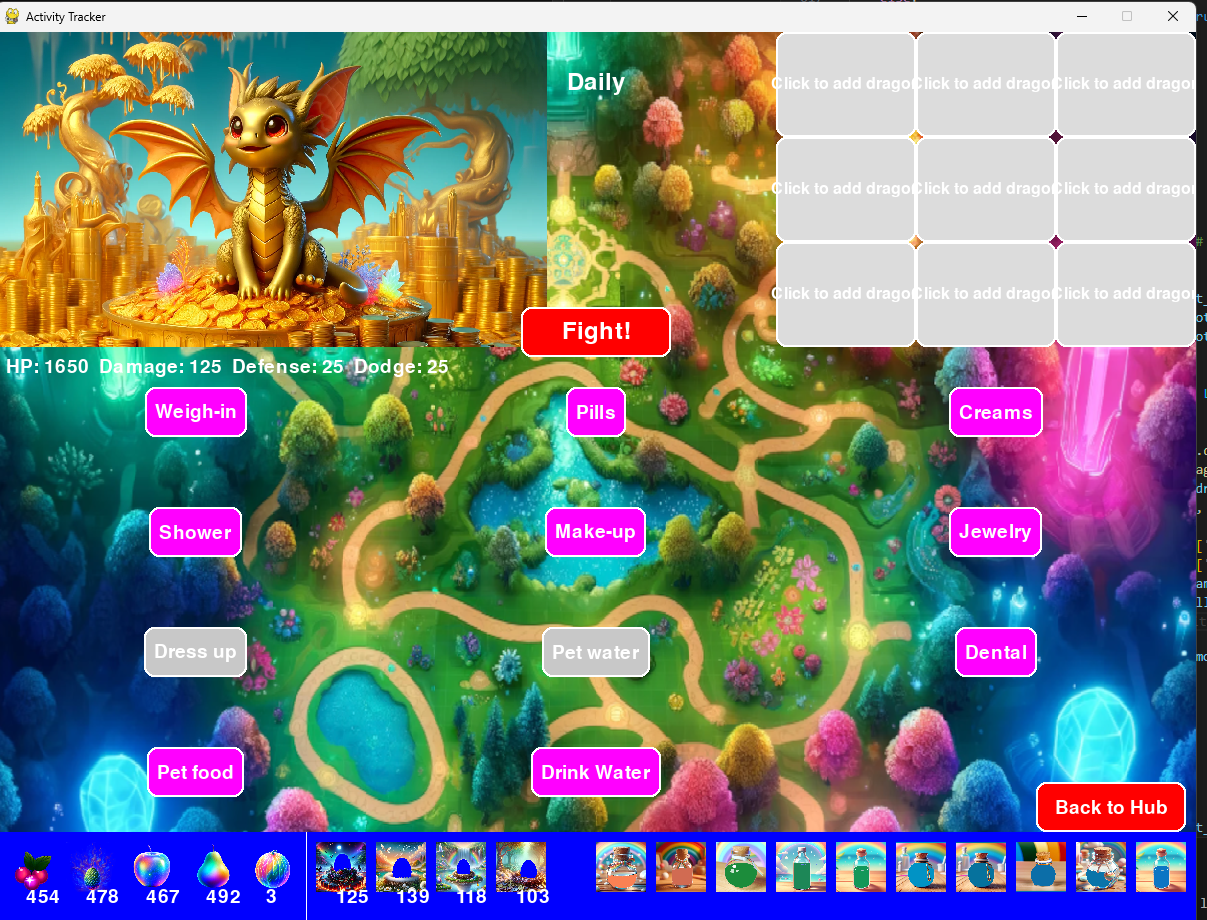
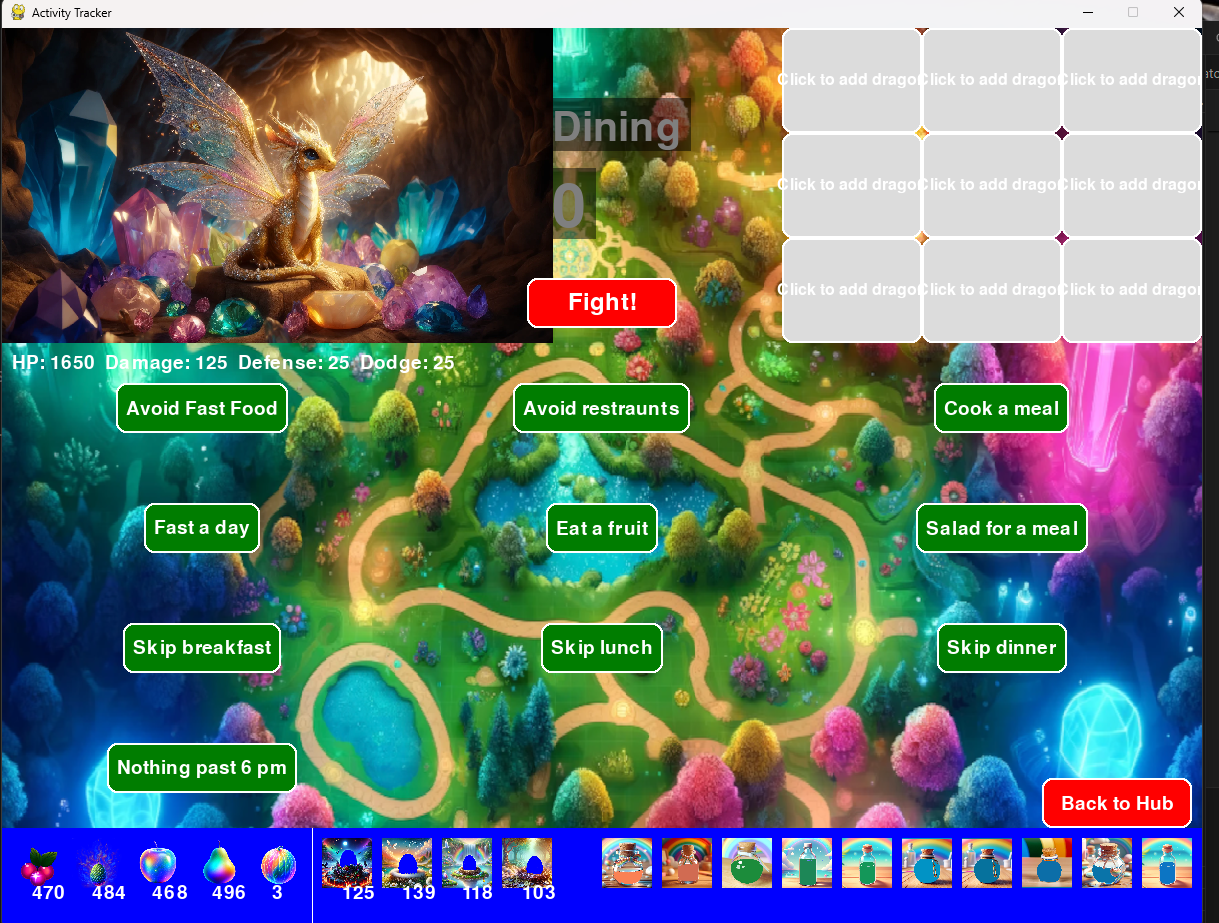
quest clicks

diff --git a/fitness.py b/fitness.py
@@ -49,10 +49,11 @@ background = load_image(background_path, (WIDTH, HEIGHT))
 category_font = pygame.font.Font(None, 60)  # Larger font for category word
 token_font = pygame.font.Font(None, 90)  # Much larger font for player token count
 
-def connect_db(db_name):
+def connect_db(db_name='save.db'):
     db_path = os.path.join(os.path.dirname(__file__), db_name)
     conn = sqlite3.connect(db_path)
     return conn
+
 
 def load_inventory_data():
     global inventory, egg_counts, inventory_slots
@@ -119,27 +120,41 @@ def save_inventory_data():
     logging.info("Inventory saved successfully")
 
 def load_quests(category):
-    conn = connect_db('dragonsedit.db')
+    conn = connect_db('save.db')
     cursor = conn.cursor()
-    cursor.execute("SELECT ID, Category, Description, ChallengeRating, Reward, completed FROM quests WHERE Category=?", (category,))
+    logging.info(f"Loading quests for category {category}")
+    cursor.execute("SELECT ID, Category, Description, ChallengeRating, Reward, completed, tally FROM playerquests WHERE Category = ? AND (reset IS NULL OR reset <= date('now'))", (category,))
     quests = cursor.fetchall()
+    logging.info(f"Loaded quests: {quests}")
     conn.close()
     return quests
 
-def complete_quest(quest_id):
-    conn = connect_db('dragonsedit.db')
+
+def complete_daily_quest(quest_id):
+    conn = connect_db('save.db')
     cursor = conn.cursor()
-    cursor.execute("UPDATE quests SET completed=1 WHERE ID=?", (quest_id,))
+    logging.info(f"Completing daily quest ID {quest_id}")
+    cursor.execute("UPDATE playerquests SET completed = 1, reset = date('now', '+1 day') WHERE ID = ?", (quest_id,))
     conn.commit()
     conn.close()
 
+    
 def update_inventory(reward_str):
     rewards = reward_str.split()
     fruit, amount = rewards[1], int(rewards[0])
-    logging.info(f"Updating inventory: Adding {amount} of {fruit}")
-    inventory[fruit] += amount
-    logging.info(f"New inventory count for {fruit}: {inventory[fruit]}")
+    print(f"Updating inventory: Adding {amount} of {fruit}")
+
+    # Ensure the fruit exists in the inventory before updating
+    if fruit in inventory:
+        inventory[fruit] += amount
+        print(f"New inventory count for {fruit}: {inventory[fruit]}")
+    else:
+        inventory[fruit] = amount
+        print(f"Added new fruit {fruit} with count: {amount}")
+
+    # Save the updated inventory to the database
     save_inventory_data()
+
 
 def flag_dragon_aggressive(category):
     # Placeholder function for flagging dragon as aggressive
@@ -195,44 +210,30 @@ def draw_beveled_button_gradient(surface, rect, text, font, gradient_colors):
     text_rect = text_surface.get_rect(center=rect.center)
     surface.blit(text_surface, text_rect)
 
+# Then update the game loop or where the quests are displayed to refresh the quests
 def draw_area_gameboard(category, boss_dragon_filename, boss_dragon_stats, player_dragons):
     screen.fill(GREY)
     screen.blit(background, (0, 0))
 
-    # Adjust the position of the category title and player token count
-    category_text = category.capitalize()
-    category_pos = (WIDTH // 2 - 10, 80)
+    draw_text(screen, category.capitalize(), category_font, WHITE, (WIDTH // 2 - 50, 80))
     token_text = str(player_tokens[category])
-    token_pos = (WIDTH // 2 , 140)
+    draw_text(screen, token_text, token_font, WHITE, (WIDTH // 2 - 50, 150))
 
-    # Calculate the size of the text surfaces
-    category_surface = category_font.render(category_text, True, WHITE)
-    token_surface = token_font.render(token_text, True, WHITE)
+    box_width, box_height = category_font.size(category.capitalize())
+    s = pygame.Surface((box_width + 20, box_height + 10))
+    s.set_alpha(128)
+    s.fill((0, 0, 0))
+    screen.blit(s, (WIDTH // 2 - 60, 70))
 
-    # Create the semi-transparent boxes
-    category_box = pygame.Rect(category_pos[0] - 10, category_pos[1] - 10, category_surface.get_width() + 20, category_surface.get_height() + 20)
-    token_box = pygame.Rect(token_pos[0] - 10, token_pos[1] - 10, token_surface.get_width() + 20, token_surface.get_height() + 20)
+    box_width, box_height = token_font.size(token_text)
+    s = pygame.Surface((box_width + 20, box_height + 10))
+    s.set_alpha(128)
+    s.fill((0, 0, 0))
+    screen.blit(s, (WIDTH // 2 - 60, 140))
 
-    # Draw the semi-transparent boxes
-    s1 = pygame.Surface((category_box.width, category_box.height))
-    s1.set_alpha(128)  # Alpha level
-    s1.fill((0, 0, 0))  # Fill the surface with color
-    screen.blit(s1, category_box.topleft)
-
-    s2 = pygame.Surface((token_box.width, token_box.height))
-    s2.set_alpha(128)  # Alpha level
-    s2.fill((0, 0, 0))  # Fill the surface with color
-    screen.blit(s2, token_box.topleft)
-
-    # Draw the text
-    draw_text(screen, category_text, category_font, WHITE, category_pos)
-    draw_text(screen, token_text, token_font, WHITE, token_pos)
-
-    # Load and display boss dragon image
     max_height = int(HEIGHT * 0.35)
     boss_dragon_image = load_boss_dragon_image(boss_dragon_filename, max_height)
-
-    # Check and flip boss dragon image if necessary
+    
     conn = connect_db('dragonsedit.db')
     cursor = conn.cursor()
     cursor.execute("SELECT facing_direction FROM dragons WHERE filename=?", (boss_dragon_filename,))
@@ -244,21 +245,21 @@ def draw_area_gameboard(category, boss_dragon_filename, boss_dragon_stats, playe
 
     screen.blit(boss_dragon_image, (0, 0))
 
-    # Calculate and display boss stats
     boss_hp, boss_damage, boss_defense, boss_dodge = calculate_boss_stats(boss_dragon_stats)
     stats_text = f"HP: {boss_hp}  Damage: {boss_damage}  Defense: {boss_defense}  Dodge: {boss_dodge}"
     draw_text(screen, stats_text, small_font, WHITE, (10, max_height + 10))
 
-    # Load and display quests
     quests = load_quests(category)
-    button_height = 50  # Fixed height for consistency
+    button_height = 50
     grid_cols = 3
     grid_rows = 4
-    total_grid_height = (HEIGHT - 100) * 0.6  # Exclude bottom 100 pixels for the inventory box
+    total_grid_height = (HEIGHT - 100) * 0.6
     total_grid_width = WIDTH
     grid_height = total_grid_height // grid_rows
     grid_width = total_grid_width // grid_cols
-    start_y = (HEIGHT - 100) * 0.4  # Start the grid at 40% of the adjusted height
+    start_y = (HEIGHT - 100) * 0.4
+
+    logging.info(f"Drawing {len(quests)} quests for category {category}")
 
     for i, quest in enumerate(quests):
         text_surface = small_font.render(quest[2], True, WHITE)
@@ -266,27 +267,24 @@ def draw_area_gameboard(category, boss_dragon_filename, boss_dragon_stats, playe
         x = (i % grid_cols) * grid_width + (grid_width - button_width) // 2
         y = start_y + (i // grid_cols) * grid_height + (grid_height - button_height) // 2
         color = CATEGORY_INFO.get(quest[1], {}).get('color', BLUE)
-        if quest[5]:  # If completed
+        if quest[5]:
             color = GREY
         rect = pygame.Rect(x, y, button_width, button_height)
         draw_beveled_button(screen, rect, color, quest[2], small_font)
+        logging.info(f"Quest {quest[2]} at ({x}, {y}) with rect {rect}")
 
-    # Draw the inventory
     draw_inventory(screen, inventory, egg_counts, inventory_slots)
-
-    # Draw back to hub button
     back_button_rect = pygame.Rect(WIDTH - 160, HEIGHT - 150, 150, 50)
     draw_beveled_button(screen, back_button_rect, RED, "Back to Hub", small_font)
 
-    # Draw fight button
-    fight_button_rect = pygame.Rect(WIDTH // 2 - 20, 200, 150, 50)  # Adjust position here
+    fight_button_rect = pygame.Rect(WIDTH // 2 - 75, 250, 150, 50)
     draw_beveled_button(screen, fight_button_rect, RED, "Fight!", font)
 
     draw_player_dragon_slots(player_dragons)
-
     pygame.display.flip()
 
-    return fight_button_rect  # Return the rect for fight button click handling
+    return fight_button_rect
+
 
 
 def get_random_dragon():
@@ -361,31 +359,61 @@ def handle_back_to_hub_click(mouse_x, mouse_y):
     back_button_rect = pygame.Rect(WIDTH - 160, HEIGHT - 150, 150, 50)
     return back_button_rect.collidepoint(mouse_x, mouse_y)
 
+
+def remove_and_replace_quest(quest_id, category):
+    conn = connect_db('save.db')
+    cursor = conn.cursor()
+    logging.info(f"Removing and replacing quest ID {quest_id} in category {category}")
+    # Increment the tally column
+    cursor.execute("UPDATE playerquests SET tally = tally + 1 WHERE ID = ?", (quest_id,))
+    # Mark the quest as available
+    cursor.execute("UPDATE playerquests SET completed = 0, reset = NULL WHERE ID = ?", (quest_id,))
+    # Select a new quest from the pool of available quests
+    cursor.execute("SELECT ID, Category, Description, ChallengeRating, Reward, completed, tally FROM playerquests WHERE Category = ? AND (reset IS NULL OR reset <= date('now')) ORDER BY RANDOM() LIMIT 1", (category,))
+    new_quest = cursor.fetchone()
+    logging.info(f"Selected new quest: {new_quest}")
+    conn.commit()
+    conn.close()
+    return new_quest
+
+
 def handle_quest_click(category, mouse_x, mouse_y):
+    print(f"Handling quest click for category {category} at position ({mouse_x}, {mouse_y})")
     quests = load_quests(category)
-    total_challenge_rating = 0
+    print(f"Loaded quests: {quests}")
+
     button_height = 50
     grid_cols = 3
     grid_rows = 4
-    grid_width = WIDTH // grid_cols
-    grid_height = (HEIGHT * 0.6) // grid_rows
-    margin_x = (grid_width - button_height) // 2
-    margin_y = (grid_height - button_height) // 2
+    total_grid_height = (HEIGHT - 100) * 0.6
+    total_grid_width = WIDTH
+    grid_height = total_grid_height // grid_rows
+    grid_width = total_grid_width // grid_cols
+    start_y = (HEIGHT - 100) * 0.4
 
     for i, quest in enumerate(quests):
         text_surface = small_font.render(quest[2], True, WHITE)
         button_width = text_surface.get_width() + 20
-        x = margin_x + (i % grid_cols) * (grid_width + margin_x)
-        y = HEIGHT * 0.4 + (i // grid_cols) * grid_height + margin_y
+        x = (i % grid_cols) * grid_width + (grid_width - button_width) // 2
+        y = start_y + (i // grid_cols) * grid_height + (grid_height - button_height) // 2
         rect = pygame.Rect(x, y, button_width, button_height)
+
+        print(f"Checking quest '{quest[2]}' with button boundaries: top-left ({x}, {y}), size ({button_width}x{button_height})")
+
         if rect.collidepoint(mouse_x, mouse_y):
-            if not quest[5]:  # Only handle if not already completed
-                complete_quest(quest[0])
-                update_inventory(quest[4])
-                total_challenge_rating += quest[3]
-                if total_challenge_rating >= 10:
-                    flag_dragon_aggressive(category)
+            print(f"Quest '{quest[2]}' clicked!")
+            update_inventory(f"{quest[3]} {CATEGORY_INFO[category]['fruit']}")
+            additional_fruits = random.sample(list(CATEGORY_INFO.values()), k=quest[3] // 2)
+            for fruit_info in additional_fruits:
+                update_inventory(f"1 {fruit_info['fruit']}")
+            player_tokens[category] += quest[3]
+            if category == 'daily':
+                complete_daily_quest(quest[0])
+            else:
+                new_quest = remove_and_replace_quest(quest[0], category)
+                quests[i] = new_quest
             break
+
 
 # Calculate dragon stats from traits and save to stats variable
 def calculate_dragon_stats(primary_trait, secondary_traits, nurture_trait=None):
@@ -724,9 +752,10 @@ def game_loop():
     running = True
     current_screen = 'hub'
     selected_area = None
-    boss_dragon_filename = None  # Store the selected boss dragon filename
-    boss_dragon_stats = None  # Store the selected boss dragon stats
+    boss_dragon_filename = None
+    boss_dragon_stats = None
     player_dragons = initialize_player_dragons()
+    fight_button_rect = pygame.Rect(WIDTH // 2 - 75, 150, 150, 50)
 
     while running:
         for event in pygame.event.get():
@@ -734,38 +763,38 @@ def game_loop():
                 running = False
             elif event.type == pygame.MOUSEBUTTONDOWN:
                 mouse_x, mouse_y = event.pos
+                logging.info(f"Mouse clicked at position ({mouse_x}, {mouse_y})")
                 if current_screen == 'hub':
                     for i, pos in enumerate([(100, 200), (300, 200), (500, 200), (700, 200), (900, 200)]):
                         dragon_image_file = selected_dragons[i]
                         dragon_image_path = os.path.join(os.path.dirname(__file__), "dragons", dragon_image_file)
-                        dragon_image = load_and_resize_image_keeping_aspect(dragon_image_path, (150, 150))  # Resize to fit within 150x150
+                        dragon_image = load_and_resize_image_keeping_aspect(dragon_image_path, (150, 150))
                         image_rect = dragon_image.get_rect(center=pos)
                         if image_rect.collidepoint(mouse_x, mouse_y):
                             selected_area = list(CATEGORY_INFO.keys())[i]
-                            boss_dragon_filename = dragon_image_file  # Store the selected boss dragon filename
-                            primary_trait = "Mystical"  # Example primary trait for boss dragon
-                            secondary_traits = ["Distraction", "Courageous", "Fearsome"]  # Example secondary traits for boss dragon
-                            nurture_trait = None  # Example nurture trait for boss dragon, if any
+                            boss_dragon_filename = dragon_image_file
+                            primary_trait = "Mystical"
+                            secondary_traits = ["Distraction", "Courageous", "Fearsome"]
+                            nurture_trait = None
                             boss_dragon_stats = calculate_dragon_stats(primary_trait, secondary_traits, nurture_trait)
-                            boss_dragon_stats = apply_bonuses(boss_dragon_stats, is_boss=True, tier=1)  # Apply both trait and tier bonuses
+                            boss_dragon_stats = apply_bonuses(boss_dragon_stats, is_boss=True, tier=1)
                             current_screen = 'area'
                             break
                 elif current_screen == 'area':
                     if handle_back_to_hub_click(mouse_x, mouse_y):
                         current_screen = 'hub'
+                    elif fight_button_rect and fight_button_rect.collidepoint(mouse_x, mouse_y):
+                        if player_tokens[selected_area] >= 10:
+                            player_tokens[selected_area] -= 10
+                            combat(player_dragons, boss_dragon_stats)
                     else:
                         handle_quest_click(selected_area, mouse_x, mouse_y)
-                        handle_player_dragon_slot_click(mouse_x, mouse_y, player_dragons)  # Ensure this is only called in the 'area' screen
-                        fight_button_rect = draw_area_gameboard(selected_area, boss_dragon_filename, boss_dragon_stats, player_dragons)
-                        if fight_button_rect.collidepoint(mouse_x, mouse_y):
-                            if player_tokens[selected_area] >= 10:
-                                player_tokens[selected_area] -= 10
-                                combat(player_dragons, boss_dragon_stats)
+                        handle_player_dragon_slot_click(mouse_x, mouse_y, player_dragons)
 
         if current_screen == 'hub':
             draw_hub_gameboard()
         elif current_screen == 'area' and selected_area is not None:
-            draw_area_gameboard(selected_area, boss_dragon_filename, boss_dragon_stats, player_dragons)
+            fight_button_rect = draw_area_gameboard(selected_area, boss_dragon_filename, boss_dragon_stats, player_dragons)
 
         pygame.display.flip()
 
@@ -775,8 +804,8 @@ def game_loop():
 
 
 if __name__ == "__main__":
+    logging.basicConfig(level=logging.INFO, format='%(asctime)s - %(levelname)s - %(message)s')
     initialize()
     load_inventory_data()
     game_loop()
     save_inventory_data()
-
